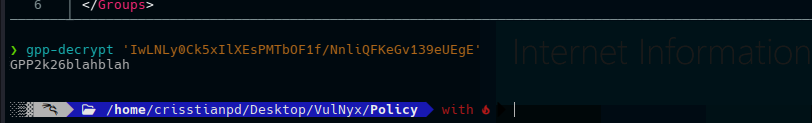
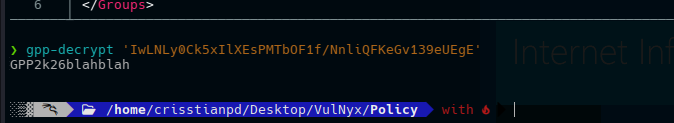
Resize policy/imgs and add VulNyx in main

diff --git a/VulNyx/Policy/policy.md b/VulNyx/Policy/policy.md
@@ -33,7 +33,7 @@ skills:
 
 </div>
 
-> **Skills**:
+>**Skills:**
 > - Directory Fuzzing
 > - Encrypted Archive Cracking
 > - Group Policy Preferences (GPP) Abuse  
@@ -142,7 +142,7 @@ De hecho, en el primer escaneo que hicimo tambien nos indicaba la existencia del
 
 ![img](./imgs/12.png)
 
-Procedemos a comprobar conectividad con `winrm` bajo las credenciales previamente obtenidas e indicando la ejecucion del comando *`whoami`*.
+Procedemos a comprobar conectividad con `winrm` bajo las credenciales previamente obtenidas e indicando la ejecucion del comando *`pwd`*.
 ```bash
 netexec winrm 10.10.2.5 -u XEROSEC -p 'GPP2k26blahblah' -x pwd
 ```
@@ -177,7 +177,6 @@ evil-winrm -i 10.10.2.5 -u administrator -p 'GigaAdmin123!'
 ...
 
 ![img](./imgs/16-2.png)
-
 
 Ahora ya somos administradores del sistema.
 Pwned!

diff --git a/README.md b/README.md
@@ -1,6 +1,7 @@
 # Informes de Seguridad Ofensiva (CTFs)
 Este repositorio contiene writeups técnicos y estructurados de máquinas y laboratorios de las siguientes plataformas:
 - [DockerLabs](/DockerLabs)
+- [VulNyx](/VulNyx)
 
 El objetivo principal es documentar de forma clara y profesional cada proceso de explotación, no solo como registro personal, sino también como material de apoyo para otras personas que estén aprendiendo o reforzando conocimientos en seguridad ofensiva.
 
